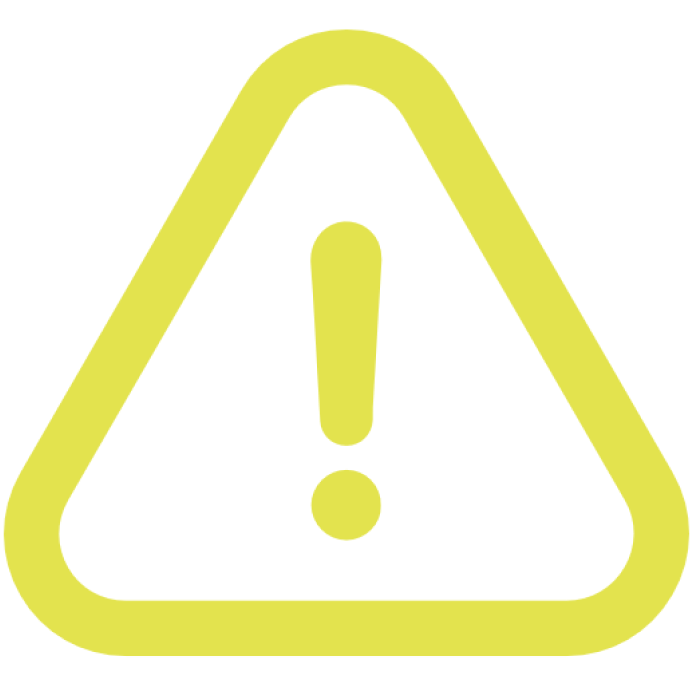
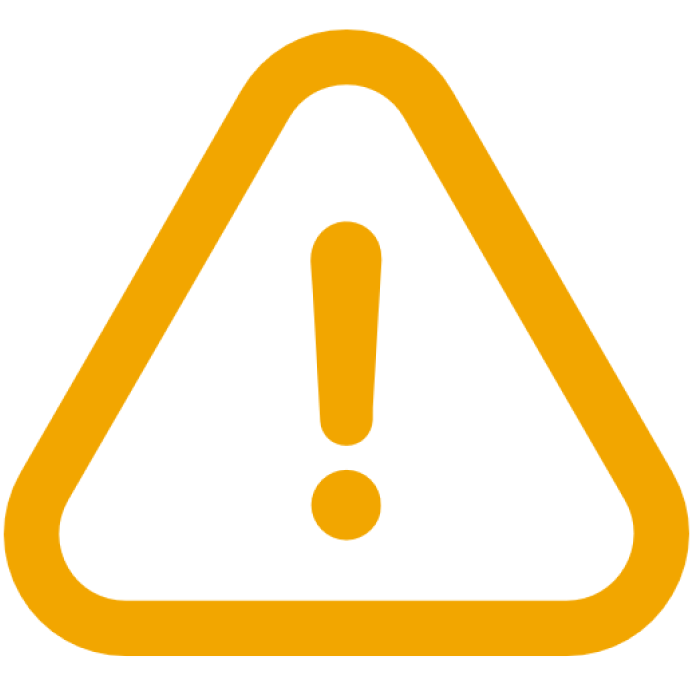
Обновление формы оповещения

Changed region(s): [[0.0, 0.0306, 1.0, 0.9796], [0.4242, 0.3061, 0.5758, 0.7959]]

diff --git a/Wallpaper Switch/NotificationForm.Designer.cs b/Wallpaper Switch/NotificationForm.Designer.cs
@@ -36,18 +36,18 @@
             // 
             // LbxNotification
             // 
-            this.LbxNotification.Font = new System.Drawing.Font("Constantia", 10.2F, System.Drawing.FontStyle.Regular, System.Drawing.GraphicsUnit.Point, ((byte)(204)));
-            this.LbxNotification.ForeColor = System.Drawing.Color.CornflowerBlue;
+            this.LbxNotification.Font = new System.Drawing.Font("Constantia", 13.8F, System.Drawing.FontStyle.Regular, System.Drawing.GraphicsUnit.Point, ((byte)(204)));
+            this.LbxNotification.ForeColor = System.Drawing.Color.White;
             this.LbxNotification.Location = new System.Drawing.Point(127, 9);
             this.LbxNotification.Name = "LbxNotification";
-            this.LbxNotification.Size = new System.Drawing.Size(275, 104);
+            this.LbxNotification.Size = new System.Drawing.Size(242, 86);
             this.LbxNotification.TabIndex = 0;
             this.LbxNotification.Text = "label1";
             this.LbxNotification.TextAlign = System.Drawing.ContentAlignment.MiddleCenter;
             // 
             // PbxStatus
             // 
-            this.PbxStatus.Location = new System.Drawing.Point(22, 22);
+            this.PbxStatus.Location = new System.Drawing.Point(22, 12);
             this.PbxStatus.Name = "PbxStatus";
             this.PbxStatus.Size = new System.Drawing.Size(85, 75);
             this.PbxStatus.SizeMode = System.Windows.Forms.PictureBoxSizeMode.StretchImage;
@@ -59,7 +59,7 @@
             this.AutoScaleDimensions = new System.Drawing.SizeF(9F, 18F);
             this.AutoScaleMode = System.Windows.Forms.AutoScaleMode.Font;
             this.BackColor = System.Drawing.Color.FromArgb(((int)(((byte)(20)))), ((int)(((byte)(19)))), ((int)(((byte)(22)))));
-            this.ClientSize = new System.Drawing.Size(414, 122);
+            this.ClientSize = new System.Drawing.Size(381, 105);
             this.Controls.Add(this.PbxStatus);
             this.Controls.Add(this.LbxNotification);
             this.Font = new System.Drawing.Font("Constantia", 9F);

diff --git a/Wallpaper Switch/NotificationForm.cs b/Wallpaper Switch/NotificationForm.cs
@@ -30,7 +30,6 @@ namespace Wallpaper_Switch
             SetStartPosition();
 
             LbxNotification.Text = message; 
-            LbxNotification.ForeColor = _borderColor;
 
             this.ShowInTaskbar = false;
         }
@@ -56,7 +55,7 @@ namespace Wallpaper_Switch
                     break;
                 case NotificationStatus.Warning:
                         PbxStatus.Image = Resources.Warning;
-                        _borderColor = Color.FromArgb(227, 227, 78);
+                        _borderColor = Color.FromArgb(242, 166, 0);
                     break;
                 case NotificationStatus.Error:
                         PbxStatus.Image = Resources.Error;

diff --git a/Wallpaper Switch/MainForm.cs b/Wallpaper Switch/MainForm.cs
@@ -30,6 +30,8 @@ namespace Wallpaper_Switch
             _wallpaperManager = new WallpaperManager(_sourceMananger);
 
             PbxCurrent.Image = _wallpaperManager.GetCurrentWallpaper();
+
+            Notification.Show(NotificationForm.NotificationStatus.Warning, "Не удалось удалить изображение");
         }
 
         #region Source
